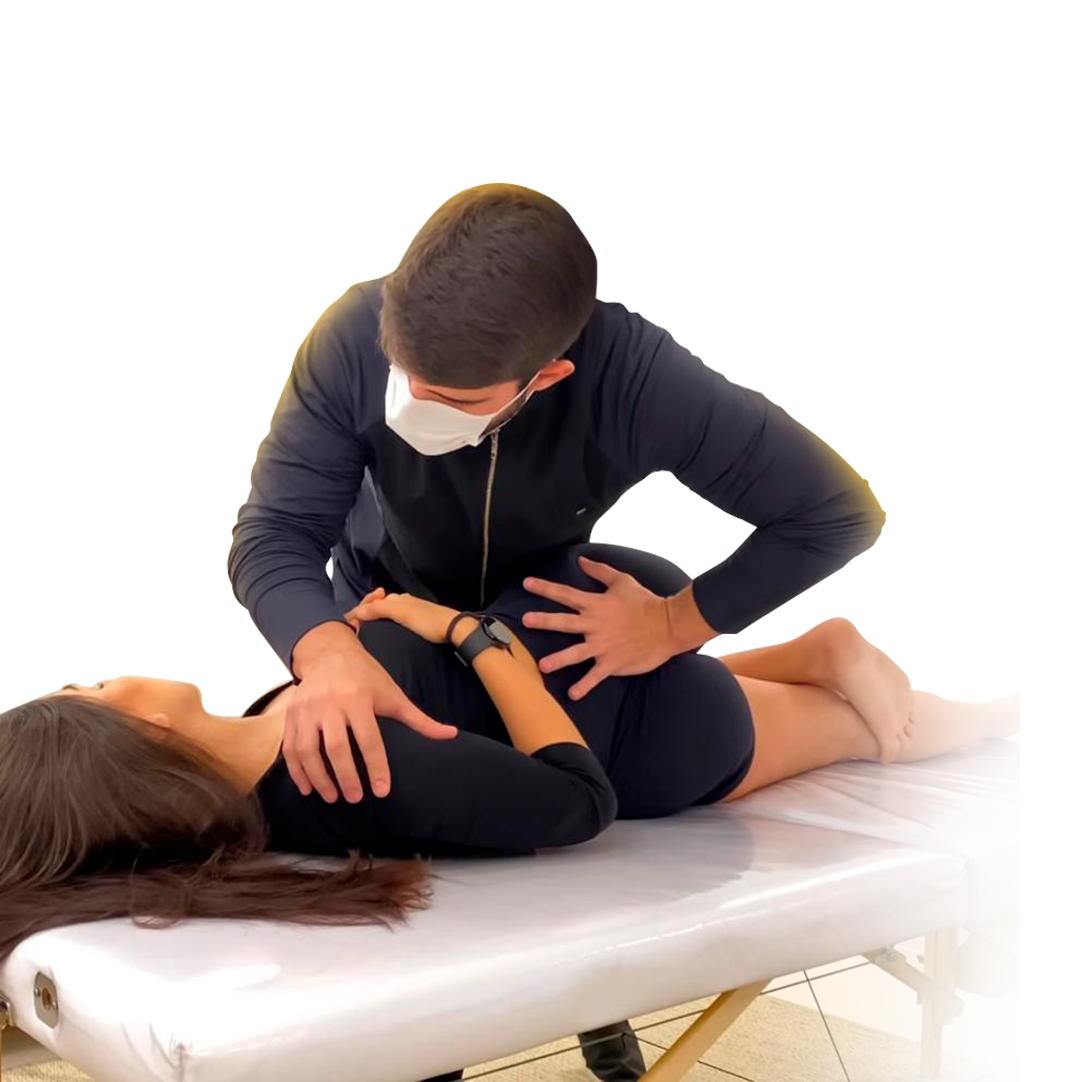
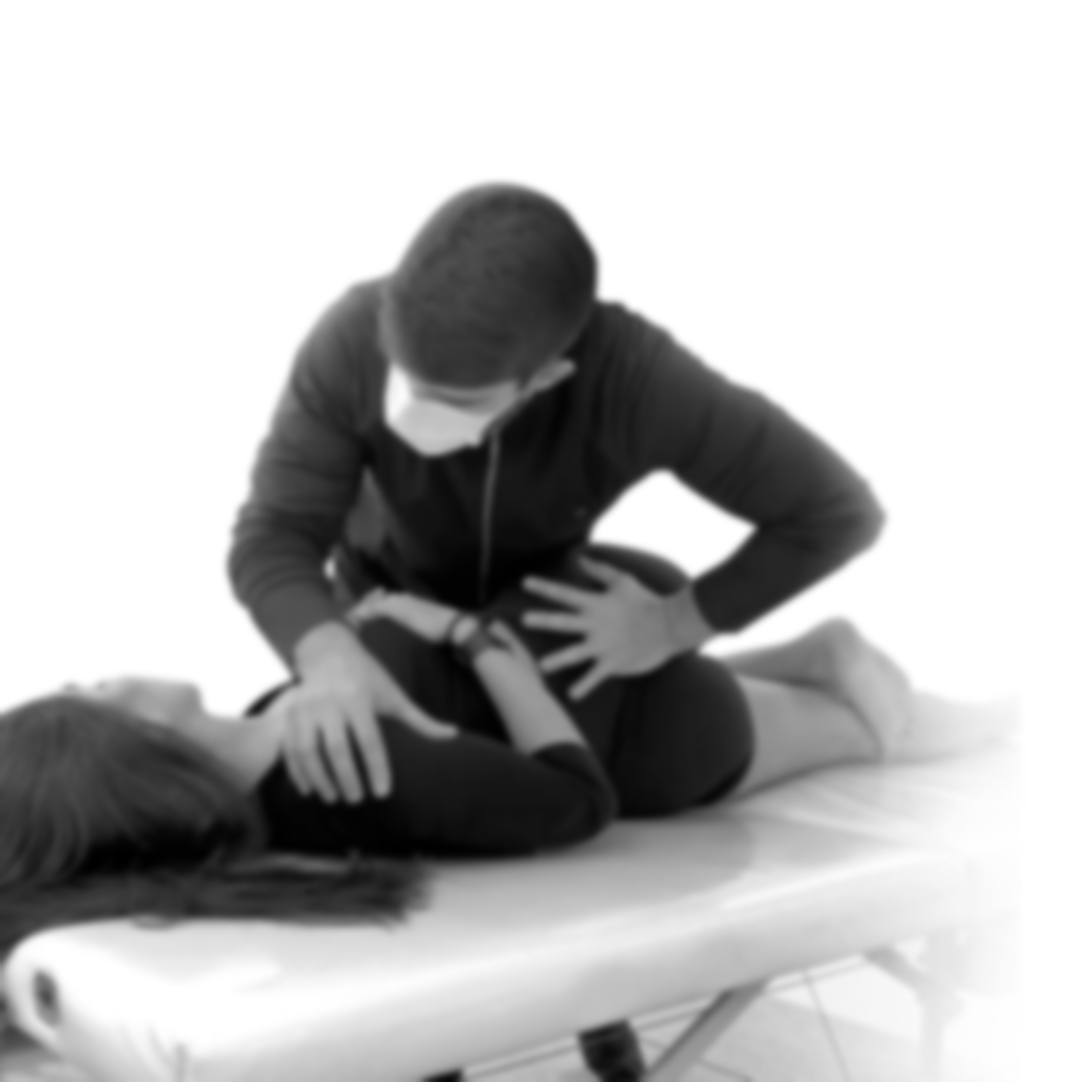
Iniciando estrutura about do site

diff --git a/index.html b/index.html
@@ -46,5 +46,11 @@
             </div>
         </div>
     </section>
+    <section id="about">
+        <div id="main-text">
+            <h1>Prazer, sou Raul Oliveira </h1>
+            <h3>Fisioterapeuta clínico e docente nos cursos de Fisioterapia, Medicina e Educação Física pela UniRedentor/AFYA. Graduado em 2010, Pós-graduado em Osteopatia Clínica e Integrada, Docência do Ensino Superior, Fisioterapia Traumato-ortopédica Funcional, Fisioterapia Cinético-Funcional, Subespecialidades em RPG/RPM (Françoise Mesières), Posturologia Clínica, Terapia Manual, Brian Mulligan Concept</h3>
+        </div>
+    </section>
   </body>
 </html>

diff --git a/styles/style.css b/styles/style.css
@@ -132,3 +132,15 @@ body {
     right: -87px;
   }
 }
+
+#about{
+  background-image: url(../assets/Agrupar\ 5.png);
+  background-position: center;
+  background-repeat: no-repeat;
+  background-size: cover;
+  height: 100vh;
+  
+}
+
+
+
